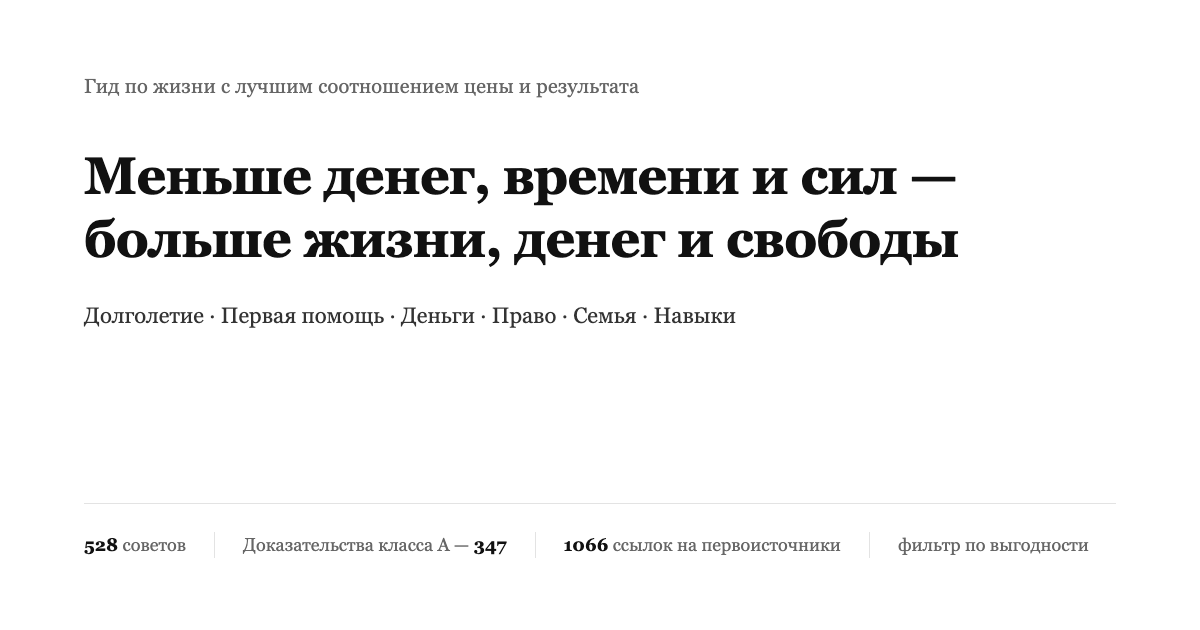
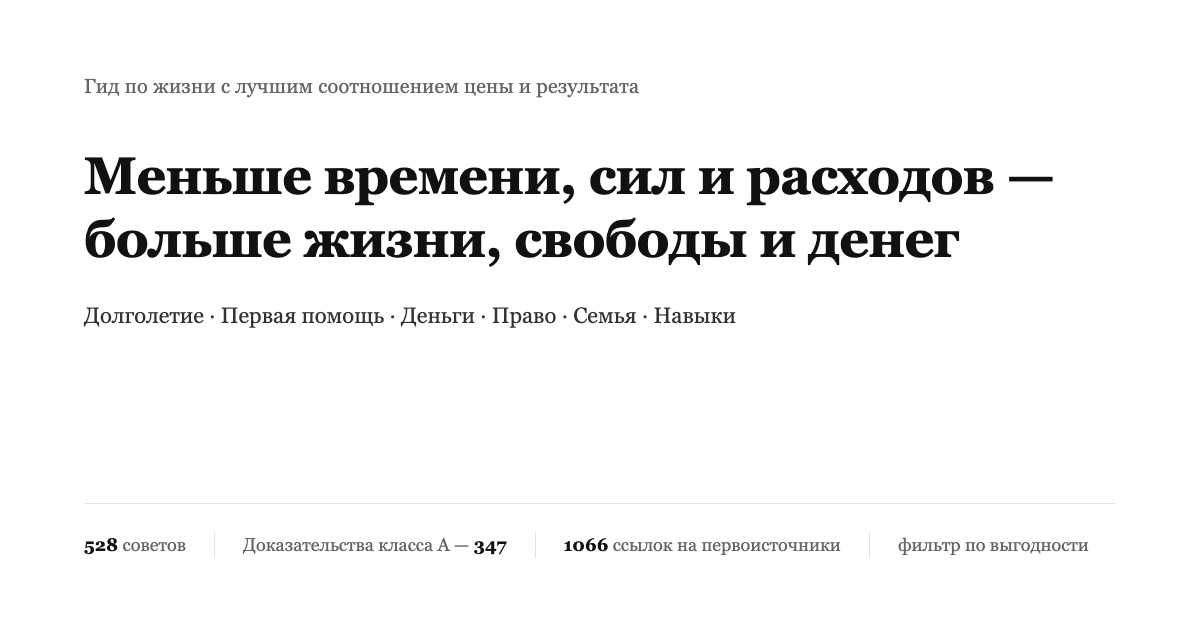
fix(ru): drop awkward money↔money echo in OG slogan
Use «расходов → денег» so the cost/return parallel stays clear without repeating «деньги» on both sides.

Changed region(s): [[0.2775, 0.2413, 0.8942, 0.4222]]

diff --git a/index.html b/index.html
@@ -34,7 +34,7 @@
 </script>
 <meta charset="utf-8">
 <meta name="viewport" content="width=device-width, initial-scale=1">
-<title>Пособие по выгодной жизни · Меньше денег, времени и сил — больше жизни, денег и свободы</title>
+<title>Пособие по выгодной жизни · Меньше времени, сил и расходов — больше жизни, свободы и денег</title>
 <meta name="description" content="Руководство, отсортированное по соотношению «результат/затраты»: 528 рекомендаций — здоровье и долголетие, первая помощь, деньги, защита от мошенников, правовые красные линии, работа, семья. У каждой — стоимость, эффект, уровень доказательности и первоисточник; фильтры по деньгам, времени и силе воли.">
 <meta name="keywords" content="здоровье,долголетие,доказательная медицина,смертность,экономия,финансы,мошенники,первая помощь,право,пособия,бизнес,выгода">
 <meta name="author" content="Как жить выгодно (перевод HowToLiveBetter)">

diff --git a/tools/og-ru.html b/tools/og-ru.html
@@ -28,7 +28,7 @@ h1{margin-top:44px;font-size:52px;line-height:1.22;letter-spacing:-.015em;color:
 </style>
 <div class="in">
   <div class="brand">Гид по жизни с лучшим соотношением цены и результата</div>
-  <h1>Меньше денег, времени и сил —<br>больше жизни, денег и свободы</h1>
+  <h1>Меньше времени, сил и расходов —<br>больше жизни, свободы и денег</h1>
   <p class="topics">Долголетие · Первая помощь · Деньги · Право · Семья · Навыки</p>
   <div class="stats">
     <span><b>528</b> советов</span>

diff --git a/README.ru.md b/README.ru.md
@@ -1,6 +1,6 @@
 <div align="center">
 
-<img src="og-ru.png" alt="Гид по жизни с лучшим соотношением цены и результата — как наименьшими деньгами, временем и силами вернуть больше лет жизни, денег и личной свободы" width="820">
+<img src="og-ru.png" alt="Гид по жизни с лучшим соотношением цены и результата — меньше времени, сил и расходов, больше жизни, свободы и денег" width="820">
 
 # Гид по жизни с лучшим соотношением цены и результата
 
